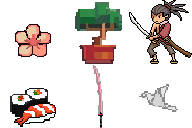
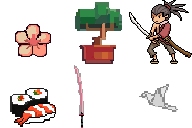
Herzen Schaden fixed + origami bewegung

Changed region(s): [[0.4688, 0.5, 0.5625, 1.0], [0.375, 0.5, 0.4375, 1.0]]

diff --git a/src/game_objects.js b/src/game_objects.js
@@ -199,7 +199,7 @@ export class Katana extends GameObject {
       layer: "world",
       collisionTags: ["world"]
     })
-    this.row = 0
+    this.row = 1
     this.col = 1
   }
 }
@@ -210,16 +210,50 @@ export class Origami extends GameObject {
     super(x, y, {
       sheet: ground,
       layer: "world",
-      collisionTags: ["world"]
+      collisionTags: ["damage"]
     })
-    this.row = 0
+    this.row = 1
     this.col = 2
+    this.leftRemaining = 20
+    this.speed = 10
+    this.rightRemaining = 0
   }
+
+  update() {
+    super.update()
+    if (this.leftRemaining > 0) {
+      this.goLefti()
+    }
+  if (this.rightRemaining > 0) {
+    this.goRighti()
+  } 
+ 
+
 }
 
 
 
 
+goLefti() {
+  this.x = this.x - this.speed
+  this.leftRemaining--
+  if (this.leftRemaining <=0) {
+  this.rightRemaining = 20
+  }
+  
+}
+
+
+goRighti() {
+  this.x = this.x + this.speed
+  this.rightRemaining--
+  if (this.rightRemaining <=0) {
+  this.leftRemaining = 20
+  }
+  
+}   
+
+}
 
 export class Background extends GameObject {
   constructor(x, y) {
@@ -404,7 +438,7 @@ export class Player extends AnimatedGameObject {
     super(x, y, {
       sheet: img,
       layer: "player",
-      collisionTags: ["world", "pickups", "cave", "forest"]
+      collisionTags: ["world", "pickups", "cave", "forest", "damage"]
     })
     this.tileSize = 128
     this.row = 0

diff --git a/src/game.js b/src/game.js
@@ -16,6 +16,7 @@ export default class Game {
   static player2 = null;
   static running = false;
   static currentFrame = 0;
+  static lastTimeDamage = 0;
 
   constructor() {
     this.tileSize = 64
@@ -27,7 +28,7 @@ export default class Game {
 
     new EventHandler()
 
-    Game.loadMap("maps/map.france.txt")
+    Game.loadMap("maps/map.France.txt")
 
     this.camera = new Camera(this)
 
@@ -46,10 +47,13 @@ export default class Game {
   }
 
   static loseLife() {
-    console.log("loseLife")
-    const lifeElement = document.querySelector("#life")
-    let lifeCounter = parseInt(lifeElement.textContent)
-    lifeElement.textContent = lifeCounter - 1
+    if (Game.currentFrame - Game.lastTimeDamage >= 60) {
+      console.log("loseLife")
+      Game.lastTimeDamage = Game.currentFrame
+      const lifeElement = document.querySelector("#life")
+      let lifeCounter = parseInt(lifeElement.textContent)
+      lifeElement.textContent = lifeCounter - 1
+    }
   }
 
   /**

diff --git a/src/collision_detector.js b/src/collision_detector.js
@@ -15,6 +15,7 @@ export default class CollisionDetector {
         forest: [],
         pickups: [],
         cave: [],
+        damage: [],
 
     }
 
@@ -24,6 +25,7 @@ export default class CollisionDetector {
         forest: [],
         pickups: [],
         cave: [],
+        damage: [],
       }
     }
 

diff --git a/src/event_handler.js b/src/event_handler.js
@@ -126,6 +126,10 @@ export class CollisionHandler {
     if (collidingObject.collisionTags.includes("cave")) {
       Game.loadMap("maps/map-02.txt")
     }
+
+    if (collidingObject.collisionTags.includes("damage")) {
+      Game.loseLife(5)
+    }
   }
 }
 
